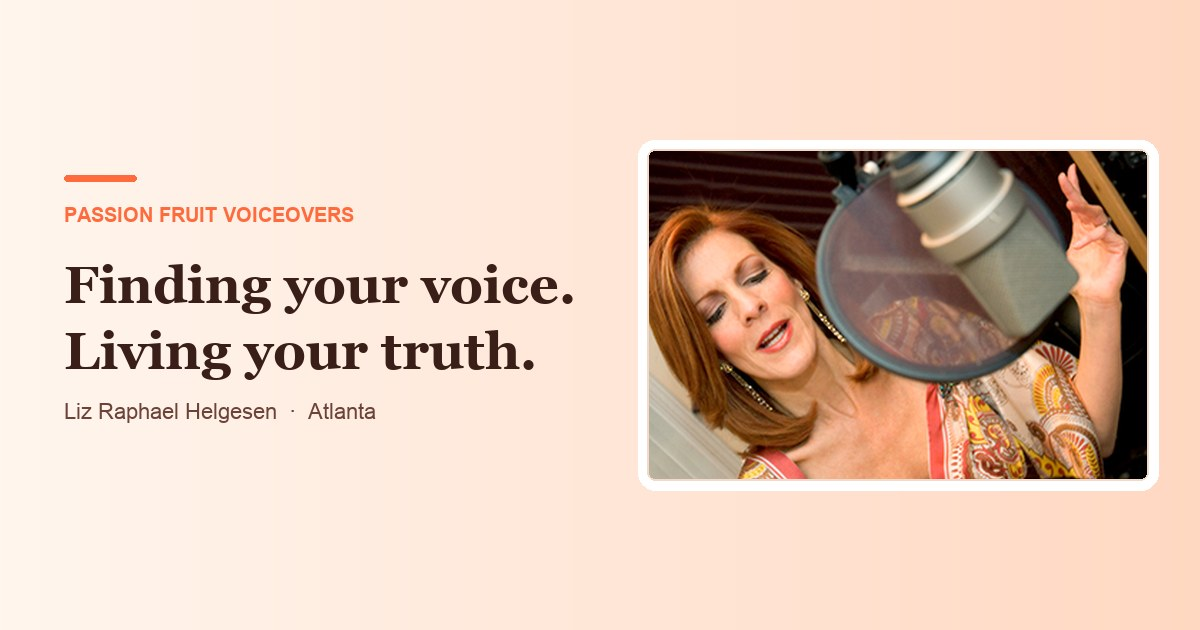
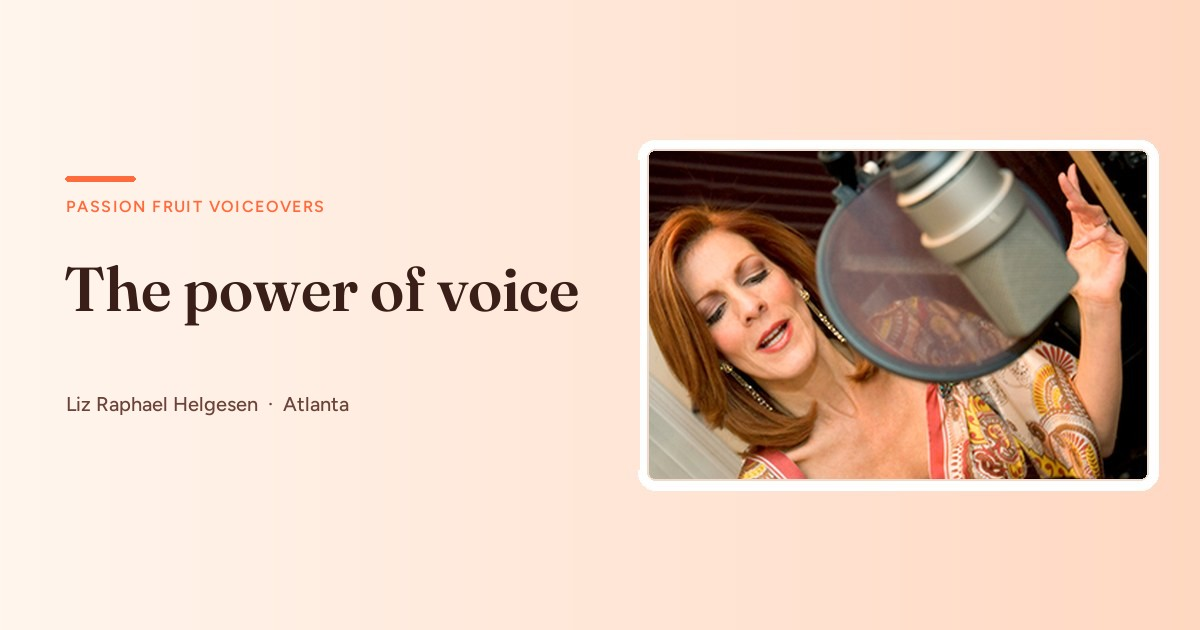
Update the share image to the new headline.
Replace the old “Finding your voice” card so link previews show The power of voice.

Changed region(s): [[0.0308, 0.4222, 0.4933, 0.6032], [0.0308, 0.2714, 0.3083, 0.3619], [0.0308, 0.6333, 0.3083, 0.6635]]

diff --git a/design-options/index.html b/design-options/index.html
@@ -14,8 +14,8 @@
   <meta property="og:url" content="https://www.passionfruitvo.com/">
   <meta property="og:title" content="Passion Fruit Voiceovers | The Power of Voice">
   <meta property="og:description" content="Liz Raphael Helgesen. A voiceover artist for more than 40 years, and a life transformation coach since 2016.">
-  <meta property="og:image" content="https://www.passionfruitvo.com/og.jpg">
-  <meta property="og:image:secure_url" content="https://www.passionfruitvo.com/og.jpg">
+  <meta property="og:image" content="https://www.passionfruitvo.com/og.jpg?v=2">
+  <meta property="og:image:secure_url" content="https://www.passionfruitvo.com/og.jpg?v=2">
   <meta property="og:image:type" content="image/jpeg">
   <meta property="og:image:width" content="1200">
   <meta property="og:image:height" content="630">
@@ -23,7 +23,7 @@
   <meta name="twitter:card" content="summary_large_image">
   <meta name="twitter:title" content="Passion Fruit Voiceovers | The Power of Voice">
   <meta name="twitter:description" content="Liz Raphael Helgesen. A voiceover artist for more than 40 years, and a life transformation coach since 2016.">
-  <meta name="twitter:image" content="https://www.passionfruitvo.com/og.jpg">
+  <meta name="twitter:image" content="https://www.passionfruitvo.com/og.jpg?v=2">
   <meta name="twitter:image:alt" content="Liz Raphael Helgesen at the microphone. The power of voice.">
   <script type="application/ld+json">
   {
@@ -31,7 +31,7 @@
     "@type": "ProfessionalService",
     "name": "Passion Fruit Voiceovers",
     "url": "https://www.passionfruitvo.com/",
-    "image": "https://www.passionfruitvo.com/og.jpg",
+    "image": "https://www.passionfruitvo.com/og.jpg?v=2",
     "description": "Liz Raphael Helgesen. A voiceover artist for more than 40 years, and a life transformation coach since 2016.",
     "telephone": "+1-770-361-7264",
     "address": {
